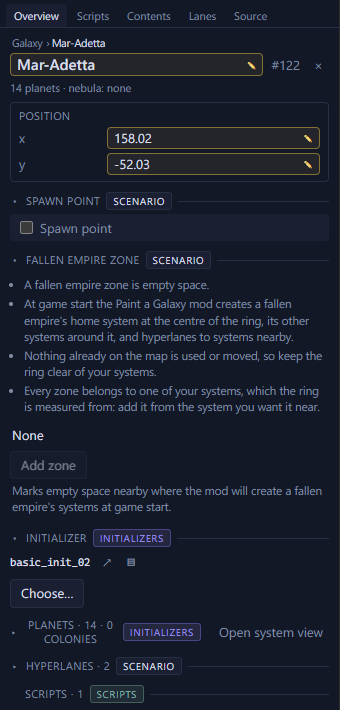
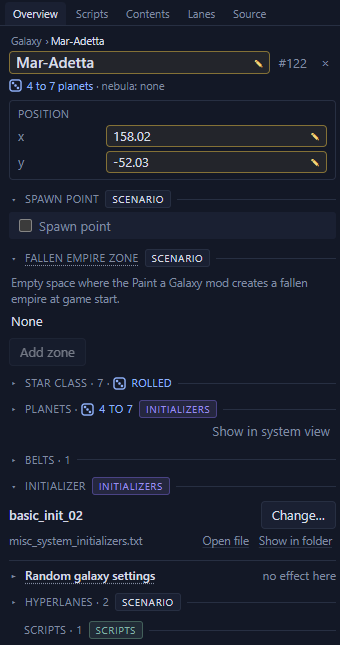
Keep a section heading on one line in a narrow dock, and retake the planet and scenario system shots

diff --git a/app/src/panels/inspector/inspector.css b/app/src/panels/inspector/inspector.css
@@ -159,18 +159,28 @@ button.chip.jump:hover {
   color: var(--fg);
 }
 
-/* A section header with an action beside it: the header keeps its row, the action sits at the right. */
+.ins-sec-title {
+  white-space: nowrap;
+}
+
+/* A section header with an action beside it: the action sits at the right, or under the header
+   when the dock is too narrow for both. */
 .ins-sec-row {
   display: flex;
+  flex-wrap: wrap;
   align-items: center;
-  gap: 6px;
+  gap: 2px 6px;
   margin: 10px 0 4px;
 }
 
 .ins-sec-row .ins-sec {
-  flex: 1;
-  min-width: 0;
+  flex: 1 0 auto;
+  width: auto;
   margin: 0;
+}
+
+.ins-sec-row > :last-child {
+  margin-left: auto;
 }
 
 /* A section header that opens a tab of its own: no chevron, so its title takes the tri's room. */

diff --git a/guide/images/SHOTS.md b/guide/images/SHOTS.md
@@ -16,6 +16,11 @@ pages don't need editing.
 - The Paint a Galaxy mod was installed but not enabled in the playset,
   which is why several dialogs show the orange "installed but not
   enabled" line. Keep that state if you retake those dialogs.
+- A change not yet released is shot from `npm run tauri dev` with the
+  same window, and with the game data the developer has installed.
+  `system/planet-page.png` and `scenario/scenario-system-inspector.png`
+  were taken that way, on Stellaris 4.5.2 game data.
+- The dock is 340 pixels wide. Drag its left edge to set it.
 - Saved as PNG at 1x, cropped to the part of the window the page talks
   about.
 - Numbered marks are not drawn into the images. A page wraps the image in
@@ -103,7 +108,7 @@ The Issues, Changes and added-system shots show those edits.
 | `scenario/plain-scenario-warning.png` | `reference/troubleshooting.md` | The warning on opening a plain scenario | Open the plain scenario with "Don't warn me again" never ticked. |
 | `scenario/spawn-point-section.png` | `scenario/spawn-points.md` | A seat's Spawn point section | In the Paint a Galaxy scenario, select a seat and crop the section. |
 | `scenario/seat-choices.png` | `scenario/spawn-points.md` | The Seat list open | As above, open Seat. Sol shows "in use". |
-| `scenario/scenario-system-inspector.png` | `scenario/fallen-empires-marauders-lgates.md` | A scenario system's page | Select Mar-Adetta #122, which isn't a seat. |
+| `scenario/scenario-system-inspector.png` | `scenario/fallen-empires-marauders-lgates.md` | A scenario system's page | Select Mar-Adetta #122, which isn't a seat, and fold its Star class, Planets and Belts sections. |
 | `scenario/initializer-browser.png` | `scenario/initializers.md` | The initializer browser | Select Mar-Adetta and press Shift+I. basic_init_02 is its current one. |
 | `scenario/prepare-section.png` | `scenario/prepare.md` | Prepare for a new game | File → Prepare for a new game… with Keep everything. Crop the dock. |
 
